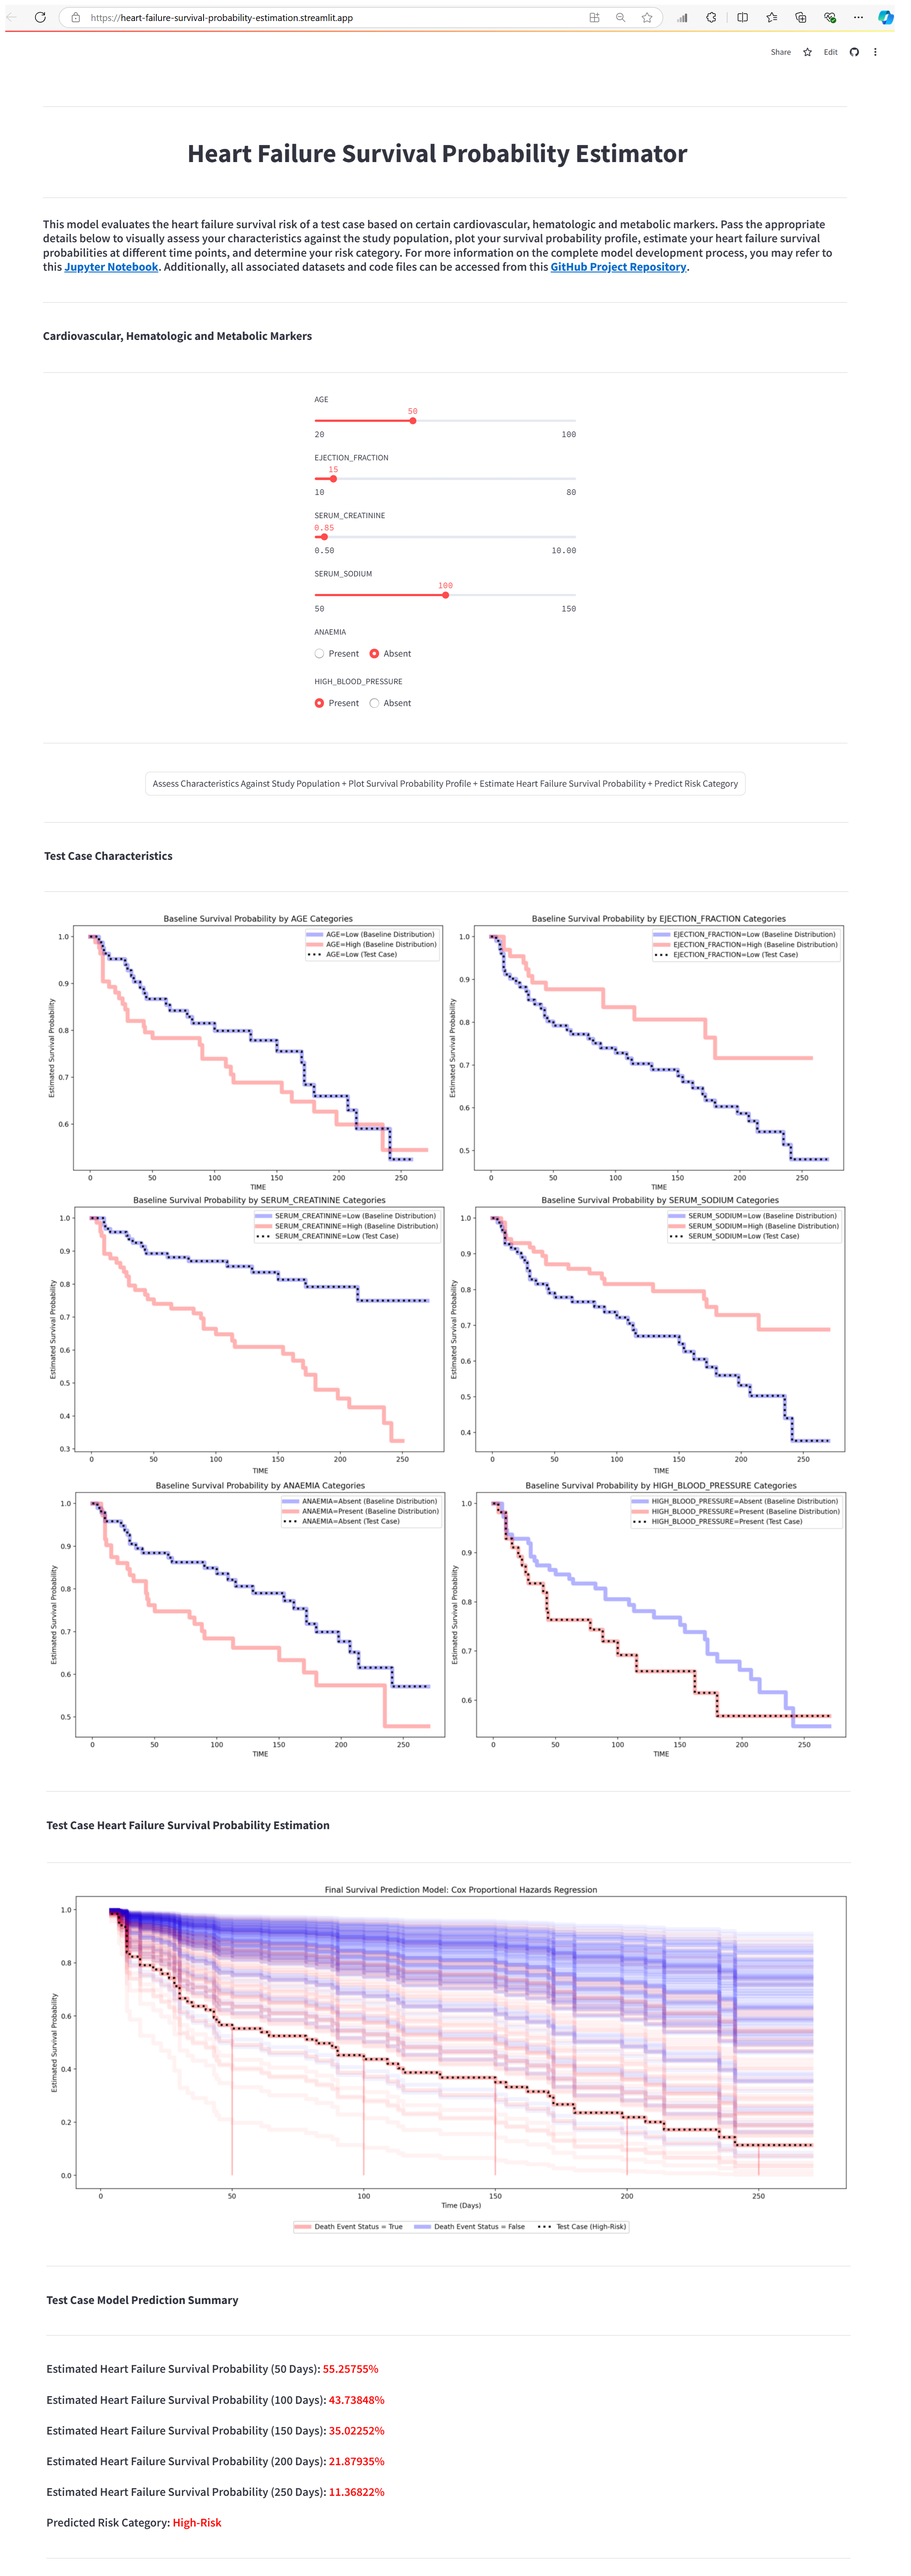
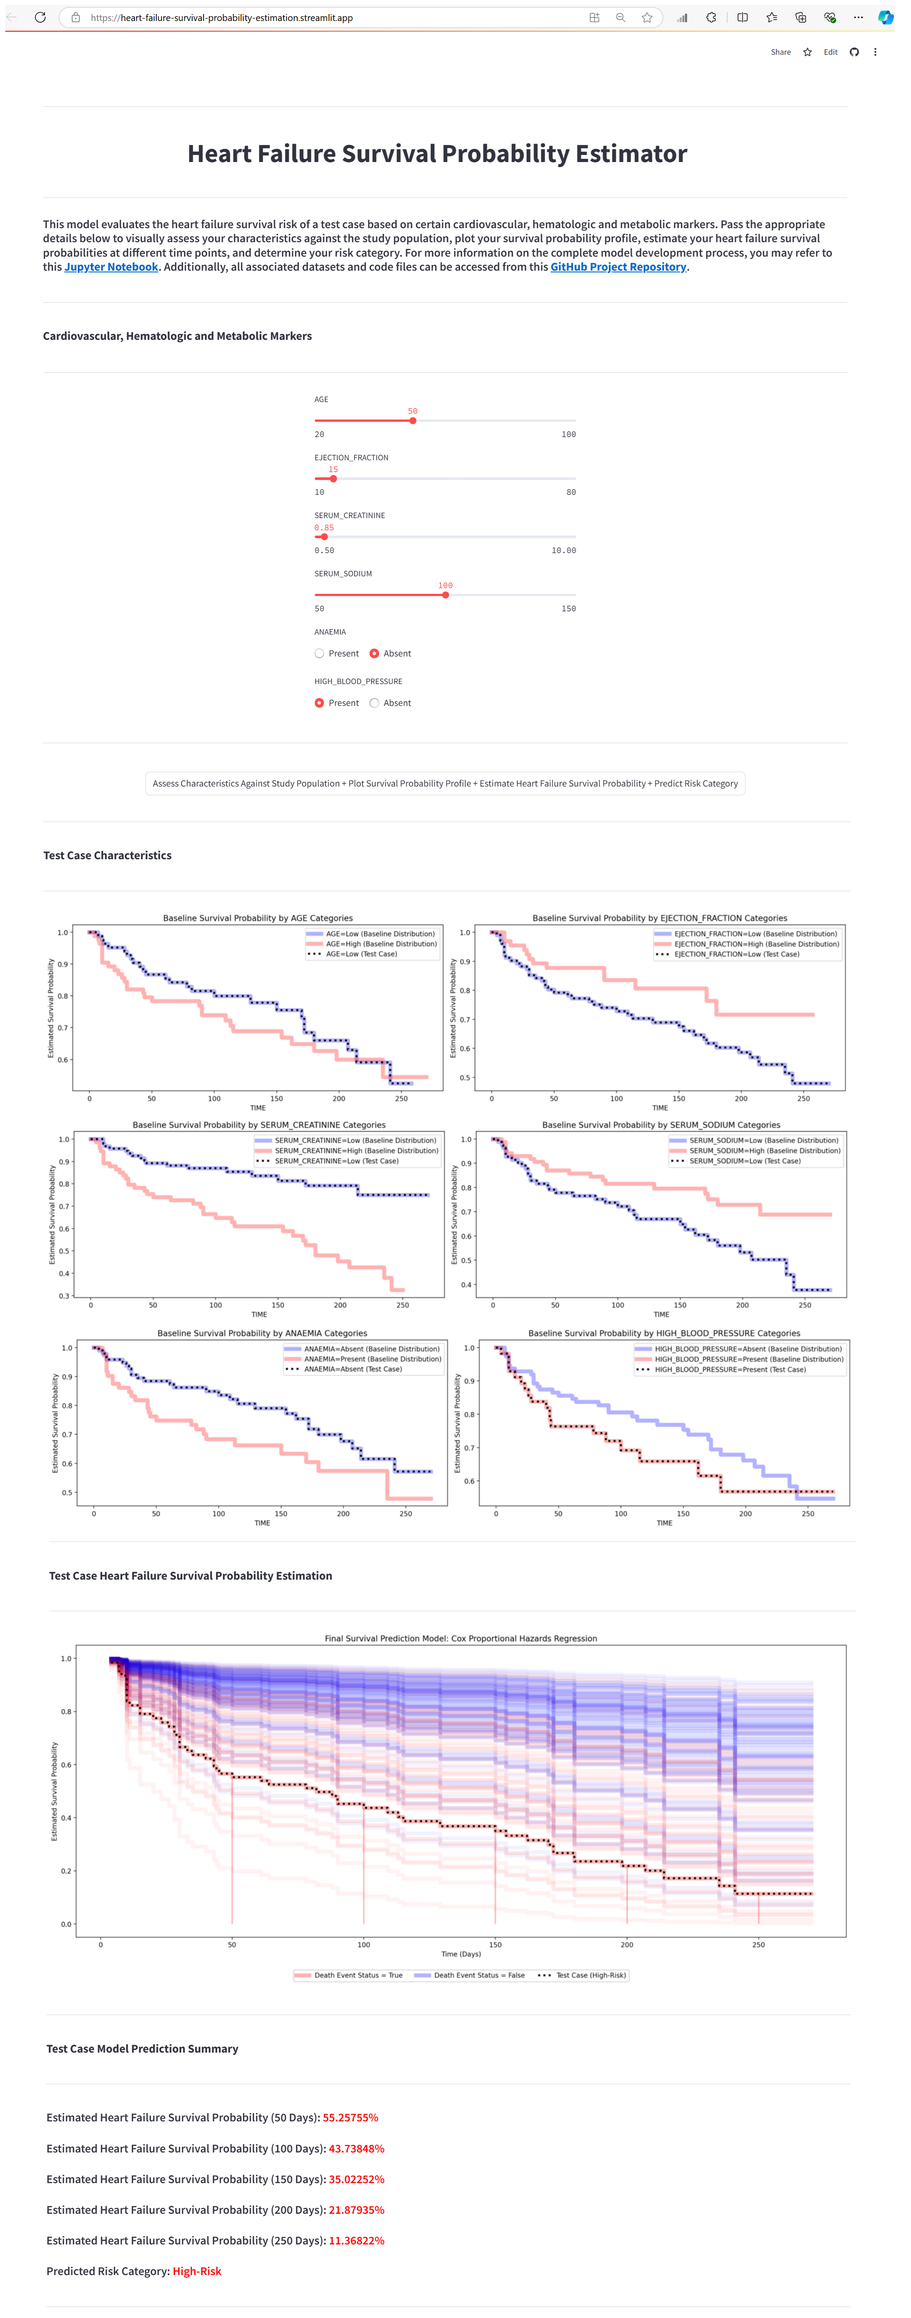
Formulated the Streamlit App
Updated the streamlit_community_cloud_app code

diff --git a/uis/.ipynb_checkpoints/streamlit_app-checkpoint.py b/uis/.ipynb_checkpoints/streamlit_app-checkpoint.py
@@ -101,11 +101,13 @@ st.markdown("""---""")
 # and storing the user inputs
 ##################################
 input_column_1,input_column_2, input_column_3 = st.columns(3)
-with input_column_2:
+with input_column_1:
     age_numeric_input = st.slider(variables[0], min_value=20, max_value=100, value=20)
     ejection_fraction_numeric_input = st.slider(variables[1], min_value=10, max_value=80, value=10)
+with input_column_2:
     serum_creatinine_numeric_input = st.slider(variables[2], min_value=0.5, max_value=10.0, value=0.5)
     serum_sodium_numeric_input = st.slider(variables[3], min_value=110, max_value=150, value=50)
+with input_column_3:
     anaemia_categorical_input = st.radio(variables[4], ('Present', 'Absent'), horizontal=True)
     high_blood_pressure_categorical_input = st.radio(variables[5], ('Present', 'Absent'), horizontal=True)
     anaemia_numeric_input = 1 if anaemia_categorical_input == 'Present' else 0

diff --git a/uis/streamlit_app.py b/uis/streamlit_app.py
@@ -101,11 +101,13 @@ st.markdown("""---""")
 # and storing the user inputs
 ##################################
 input_column_1,input_column_2, input_column_3 = st.columns(3)
-with input_column_2:
+with input_column_1:
     age_numeric_input = st.slider(variables[0], min_value=20, max_value=100, value=20)
     ejection_fraction_numeric_input = st.slider(variables[1], min_value=10, max_value=80, value=10)
+with input_column_2:
     serum_creatinine_numeric_input = st.slider(variables[2], min_value=0.5, max_value=10.0, value=0.5)
     serum_sodium_numeric_input = st.slider(variables[3], min_value=110, max_value=150, value=50)
+with input_column_3:
     anaemia_categorical_input = st.radio(variables[4], ('Present', 'Absent'), horizontal=True)
     high_blood_pressure_categorical_input = st.radio(variables[5], ('Present', 'Absent'), horizontal=True)
     anaemia_numeric_input = 1 if anaemia_categorical_input == 'Present' else 0
